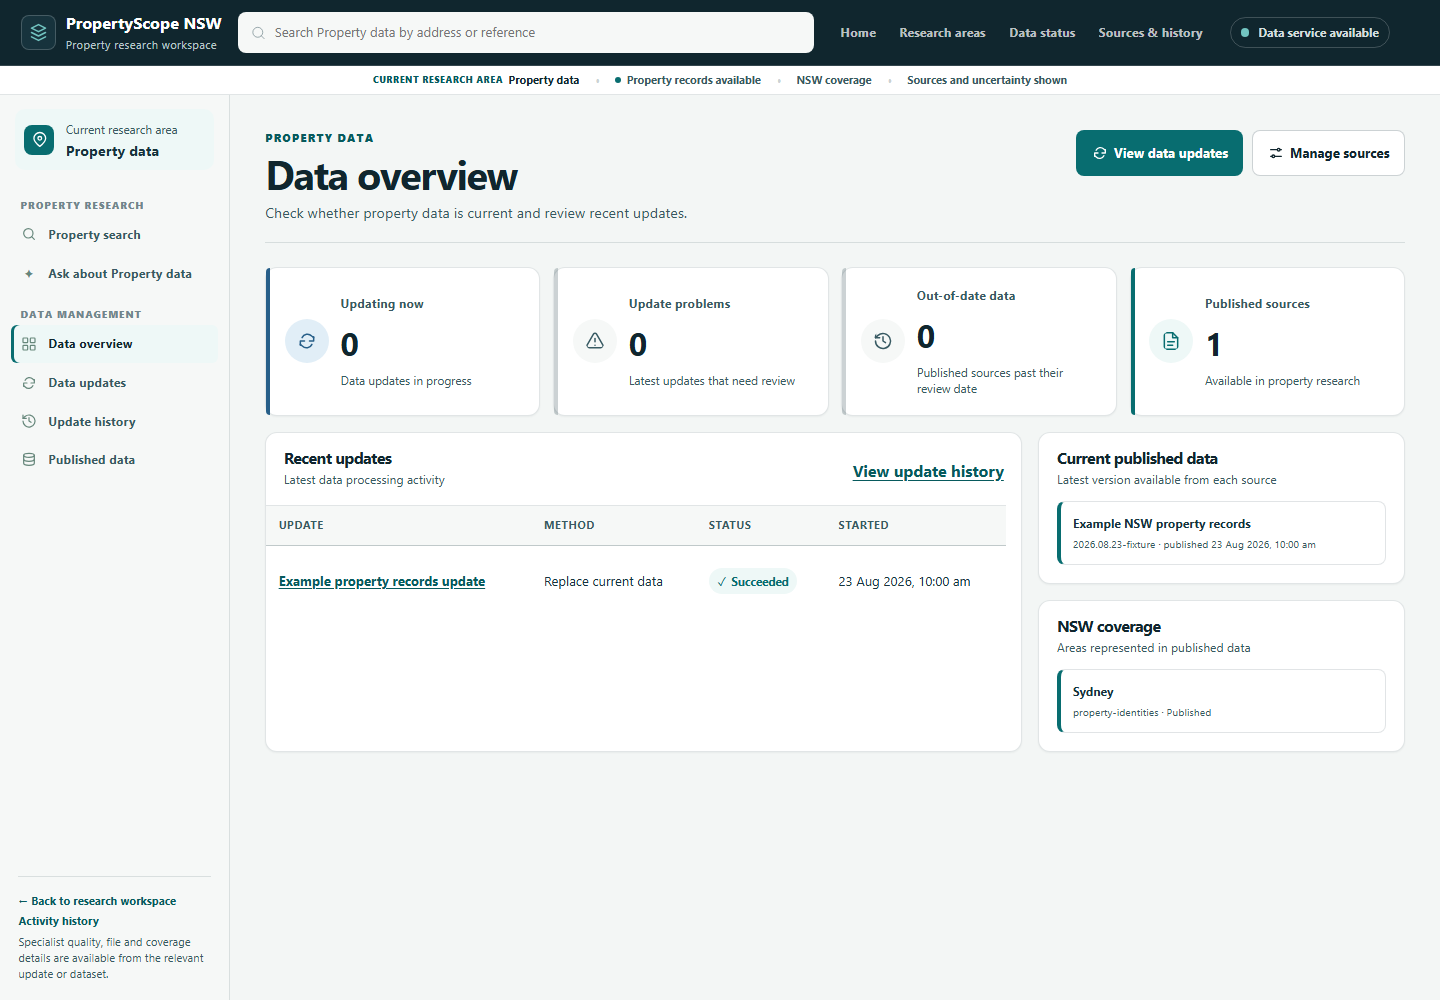
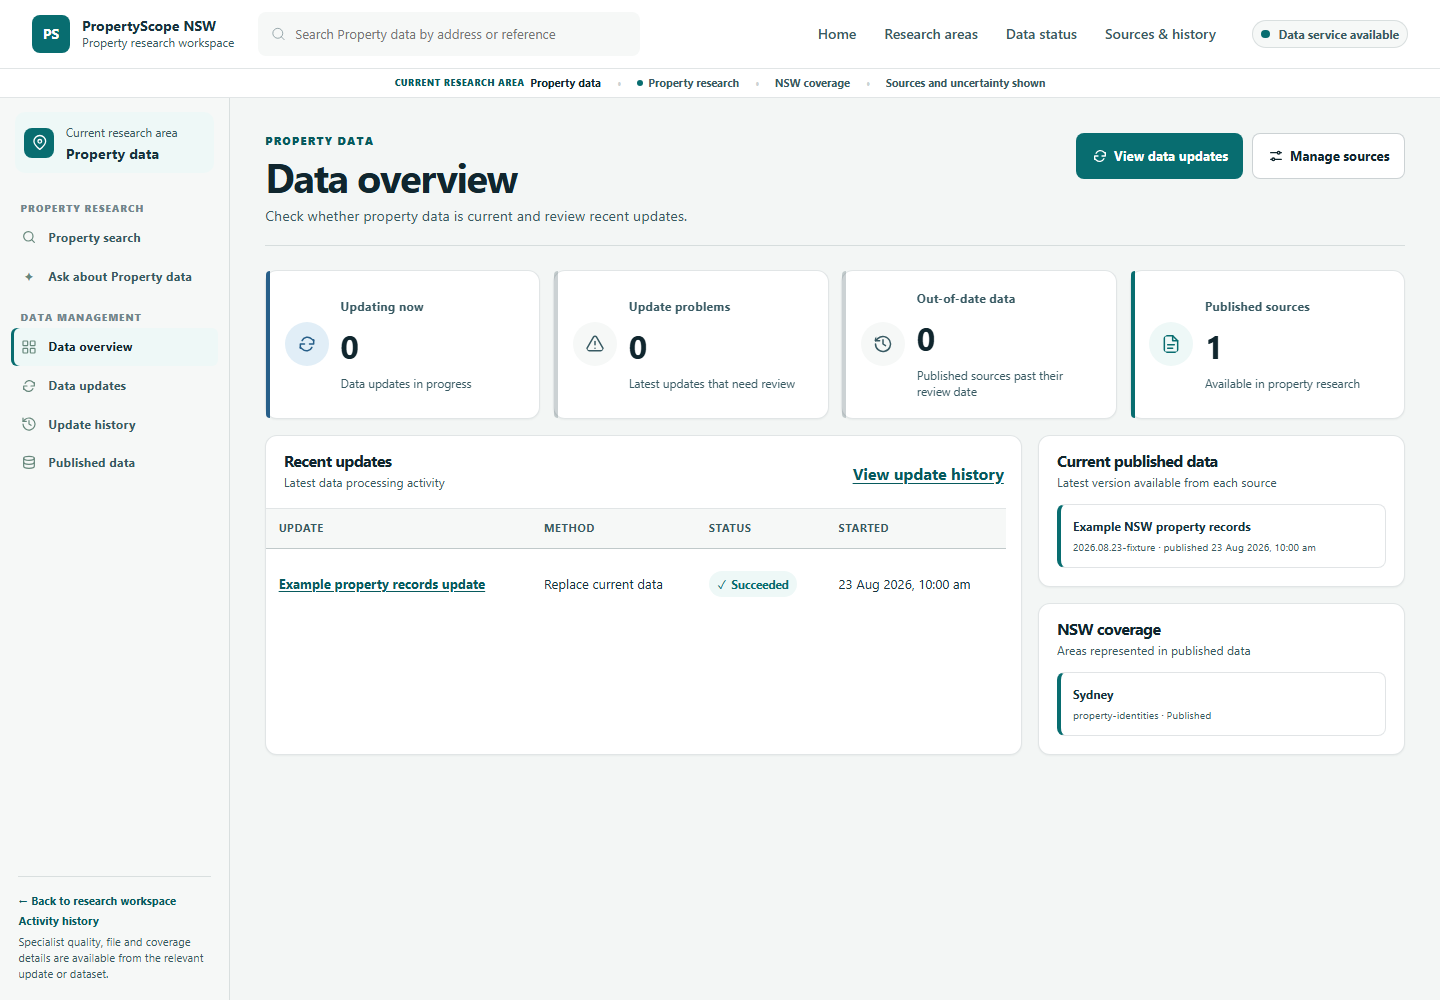
fix(shared): provide usable mobile shell touch targets

diff --git a/shared/frontend/design-system/shell.css b/shared/frontend/design-system/shell.css
@@ -23,6 +23,7 @@
   align-items: center;
   gap: var(--ps-space-3);
   min-width: 0;
+  min-height: var(--ps-control-height);
   color: var(--ps-color-text);
   text-decoration: none;
   letter-spacing: normal;
@@ -75,6 +76,7 @@
 .ps-feature-header .ps-product-nav a:hover { color: var(--ps-color-accent); background: var(--ps-color-surface-subtle); }
 .ps-feature-header a:focus-visible { outline: var(--ps-focus-outline); outline-offset: var(--ps-focus-offset); }
 .ps-feature-header .topbar-search { flex: 1 1 15rem; max-width: 25rem; min-width: 0; }
+.ps-feature-header .topbar-search input { min-height: var(--ps-control-height); }
 .ps-feature-header .topbar-actions { margin-left: auto; }
 .ps-feature-header ~ .workspace-strip { flex-wrap: wrap; height: auto; }
 /* Service badges now sit on the light shared header, not legacy inverse surfaces. */
